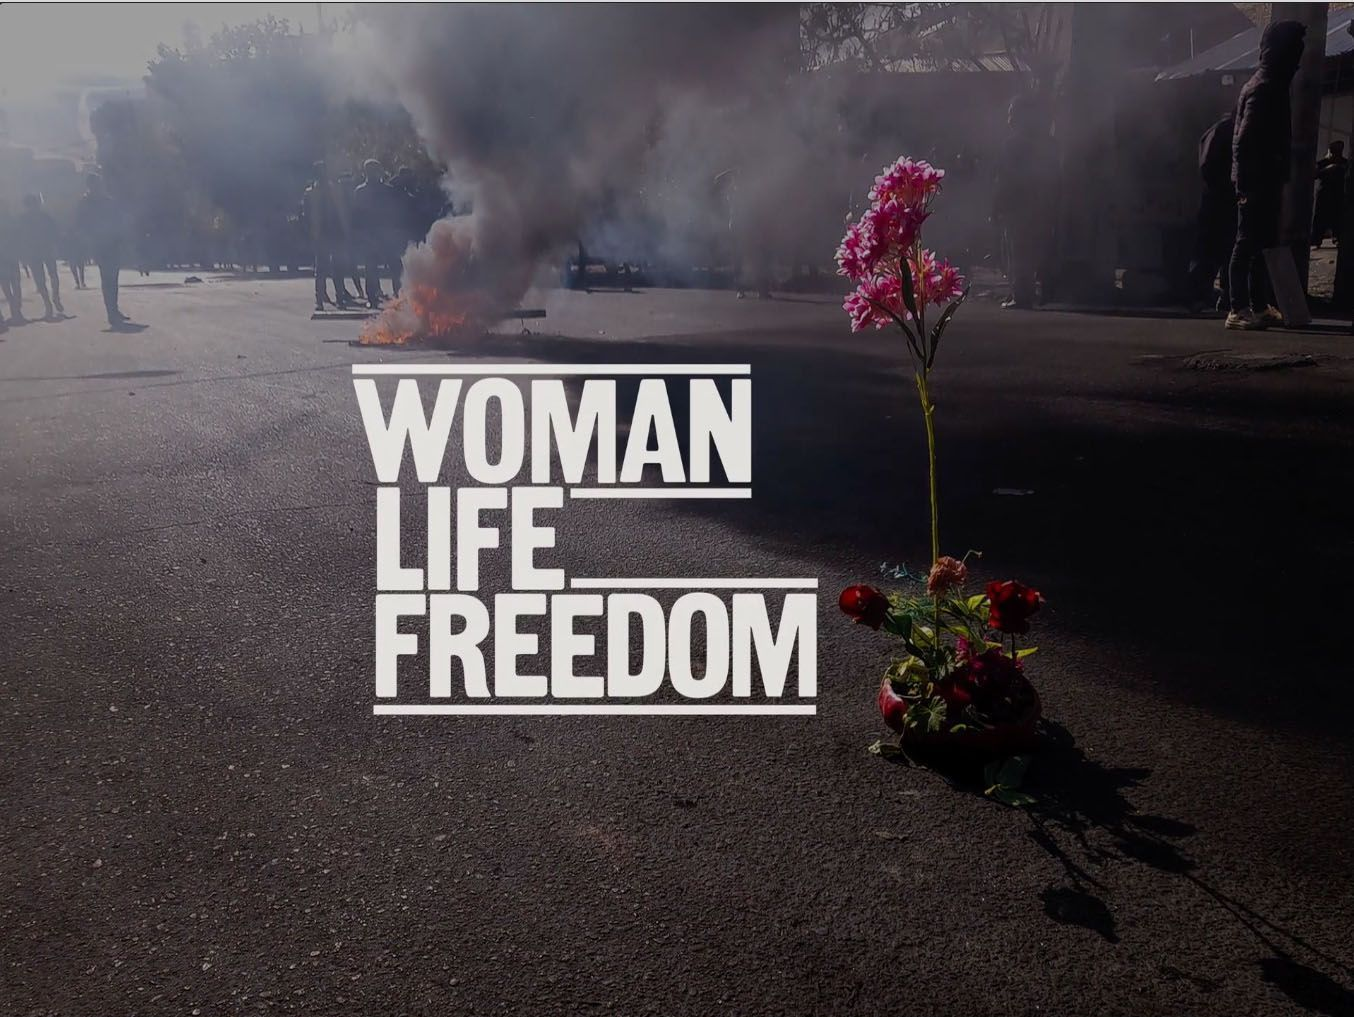
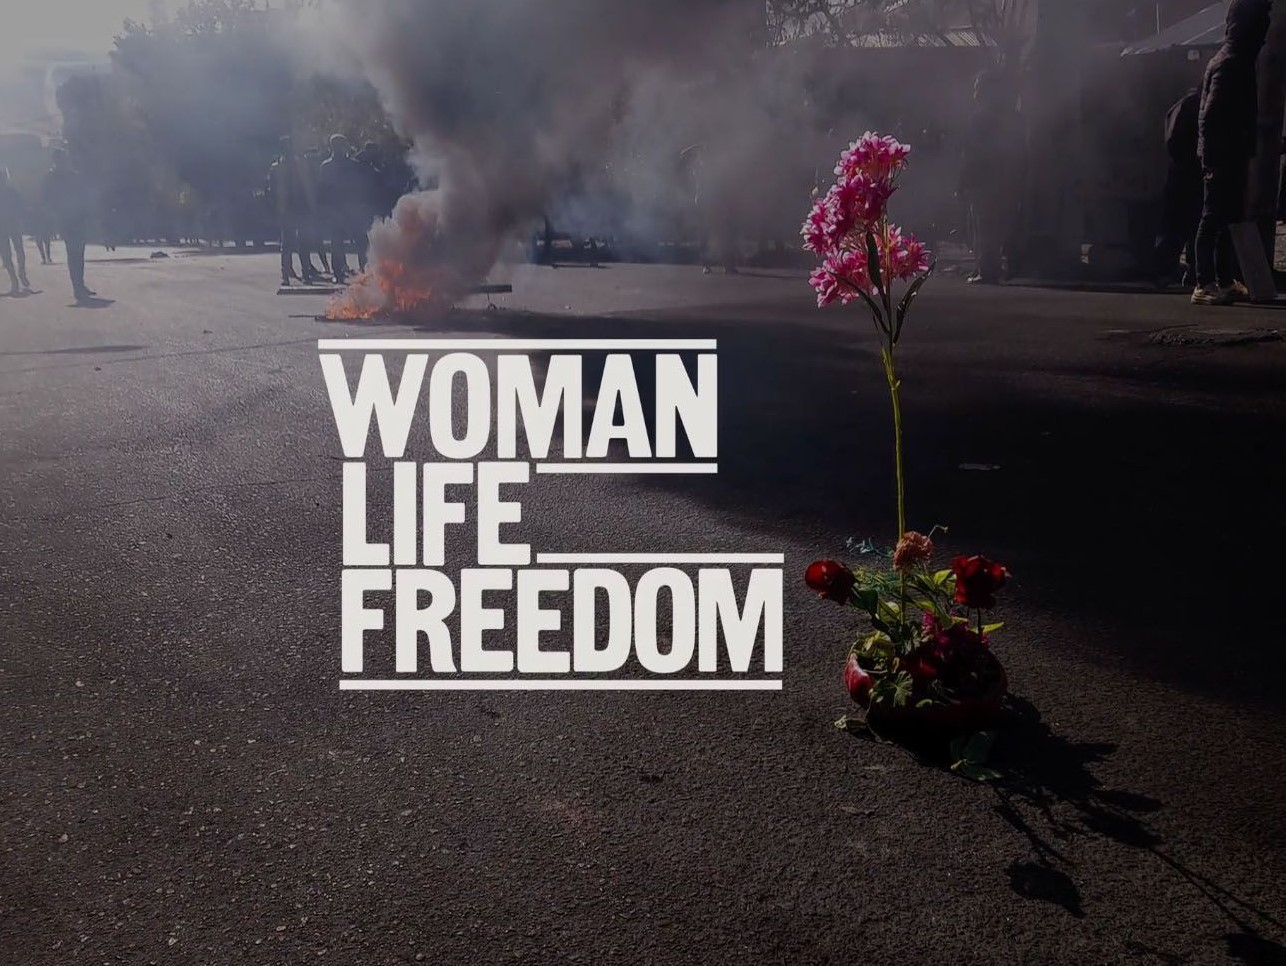
Update 1.3.6 -> add turn auto mode, resize background: 13.jpg.

diff --git a/renderer.js b/renderer.js
@@ -26,7 +26,7 @@ var { NotifApp, RefreshLinks, settingVibe, links, Onloading, connectVibe, connec
 __dirname = __dirname.replace("app.asar", "")
 var Psicountry = ["IR", "AT", "BE", "BG", "BR", "CA", "CH", "CZ", "DE", "DK", "EE", "ES", "FI", "FR", "GB", "HU", "HR", "IE", "IN", "IT", "JP", "LV", "NL", "NO", "PL", "PT", "RO", "RS", "SE", "SG", "SK", "UA", "US"];
 var PsicountryFullname = ["Auto Server", "Austria", "Belgium", "Bulgaria", "Brazil", "Canada", "Switzerland", "Czech Republic", "Germany", "Denmark", "Estonia", "Spain", "Finland", "France", "United Kingdom", "Hungary", "Croatia", "Ireland", "India", "Italy", "Japan", "Latvia", "Netherlands", "Norway", "Poland", "Portugal", "Romania", "Serbia", "Sweden", "Singapore", "Slovakia", "Ukraine", "United States"];
-var backgroundList = ["1.png", "2.png", "3.jpg", "4.jpg", "5.jpg", "6.jpg", "7.jpg", "8.jpg", "9.jpg", "10.jpg", "11.jpg", "12.jpg", "13.jpg", "14.jpg", "15.jpg", "16.jpg","17.jpg"];
+var backgroundList = ["1.png", "2.png", "3.jpg", "4.jpg", "5.jpg", "6.jpg", "7.jpg", "8.jpg", "9.jpg", "10.jpg", "11.jpg", "12.jpg", "13.jpg", "14.jpg", "15.jpg", "16.jpg", "17.jpg"];
 var WarpServer = [
     "core,auto;Auto Server",
     "gool,true|scan,true;Gool + Scan",
@@ -129,32 +129,10 @@ document.addEventListener("DOMContentLoaded", () => {
 
     };
     document.getElementById("reset-setting-warp-btn").onclick = () => {
-        console.log("Reseting setting Warp ....")
-        settingWarp = {
-            proxy: "127.0.0.1:8086",
-            gool: false,
-            scan: false,
-            endpoint: "",
-            cfon: false,
-            cfonc: "IR",
-            ipver: 4,
-            warpver: "",
-            warpkey: "",
-            scanrtt: "",
-            verbose: false,
-            cache: "",
-            wgconf: "",
-            config: "",
-            reserved: "",
-            dns: "",
-            tun: false,
-            startup: "warp",
-            isp: "other",
-            core: "auto",
-            "configfg": "https://raw.githubusercontent.com/Freedom-Guard/Freedom-Guard/main/config/linksnew.json"
-        };
-        saveSetting();
-        SetSettingWarp();
+        resetSettingWarp();
+    };
+    document.getElementById("turn-on-auto-mode").onclick = () => {
+        resetSettingWarp(settingWarp["configfg"]);
     };
     document.getElementById("change-background-warp-btn").onclick = () => {
         const randomImage = getRandomImage();
@@ -343,6 +321,34 @@ function checkUpdate() {
 }
 // #endregion
 // #region Functions other
+function resetSettingWarp(configFG = "https://raw.githubusercontent.com/Freedom-Guard/Freedom-Guard/main/config/linksnew.json") {
+    console.log("Reseting setting Warp ....")
+    settingWarp = {
+        proxy: "127.0.0.1:8086",
+        gool: false,
+        scan: false,
+        endpoint: "",
+        cfon: false,
+        cfonc: "IR",
+        ipver: 4,
+        warpver: "",
+        warpkey: "",
+        scanrtt: "",
+        verbose: false,
+        cache: "",
+        wgconf: "",
+        config: "",
+        reserved: "",
+        dns: "",
+        tun: false,
+        startup: "warp",
+        isp: "other",
+        core: "auto",
+        configfg: configFG
+    };
+    saveSetting();
+    SetSettingWarp();
+}
 function openLink(url) {
     try {
         shellEl.openExternal(url);

diff --git a/index.html b/index.html
@@ -197,6 +197,7 @@
         </div>
         <div id="options-setting-warp">
             <button id="change-background-warp-btn" class="btn">Change background</button>
+            <button id="turn-on-auto-mode" class="btn">Turn on Auto mode</button>
             <button id="reset-setting-warp-btn" class="btn">Reset setting Warp</button>
             <button id="refresh-link-btn" class="btn">Refresh links</button>
             <button id="x-contact" class="btn">X Freedom Guard</button>

diff --git a/connect.js b/connect.js
@@ -216,7 +216,7 @@ async function testProxy() {
         sect == "main" ? SetHTML("ip-ping-warp", "" + countryEmoji + testConnection.data.ip + " | <b>" + pingTime + "</b>") : ("");
         testproxystat = true;
         try {
-            var testBypass = await axios.get('https://1.1.1.1', {
+            var testBypass = await axios.get('https://x.com', {
                 timeout: 5000, // Timeout in ms
             });
             console.log("Fliternet Bypassed");
